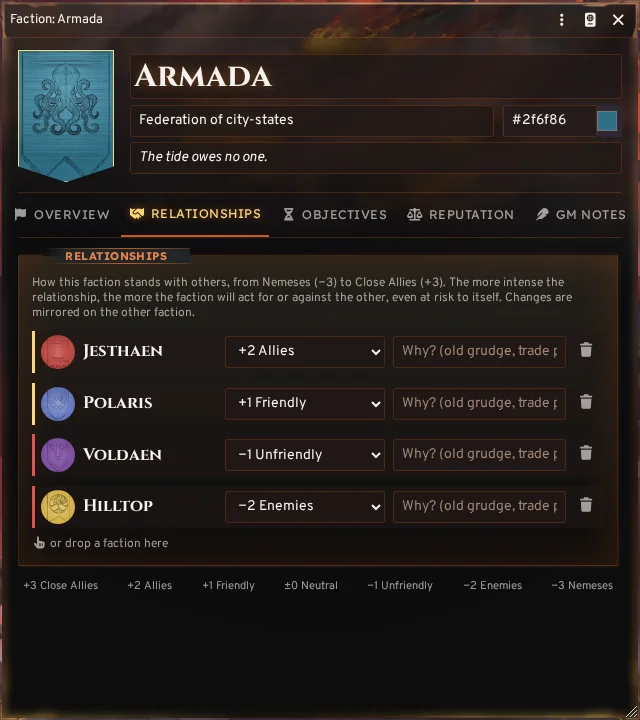
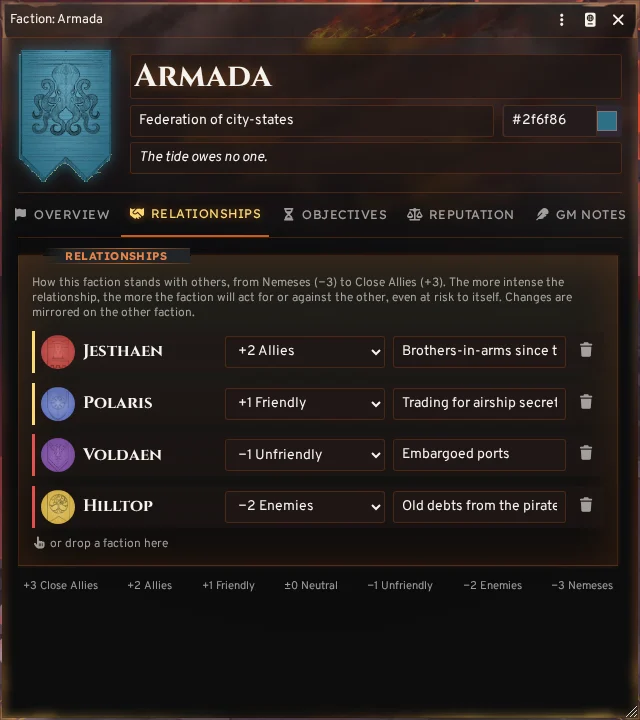
New README screenshots; let faction sheet editors grow with their text
Retake all README screenshots with a full level 2 character, the traced
banner shapes and objectives running in the Countdowns tracker.

Fix the faction sheet clipping longer descriptions, assets and problems:
Foundry's toggled editor positions its text absolutely, so the box never
grew past its minimum height.

diff --git a/styles/five-banners.css b/styles/five-banners.css
@@ -58,6 +58,8 @@
 .application.dh5b .window-content { background: transparent; color: var(--dh5b-text); padding: 0.75rem 1rem 1rem; gap: 0.6rem; }
 .application.dh5b-faction-sheet .window-content { overflow: hidden; display: flex; flex-direction: column; }
 .application.dh5b-faction-sheet .window-content > .tab { flex: 1; min-height: 0; overflow-y: auto; padding-right: 0.25rem; }
+/* Foundry lays tabs out as flex columns; keep sections at their natural height so the tab scrolls instead of squeezing them. */
+.application.dh5b-faction-sheet .window-content > .tab > * { flex-shrink: 0; }
 
 /* ---------- shared pieces ---------- */
 .dh5b .dh5b-hint,
@@ -218,7 +220,10 @@
 .dh5b nav.sheet-tabs > a.active { color: var(--dh5b-gold); border-bottom: 2px solid var(--dh5b-accent); text-shadow: 0 0 8px hsl(from var(--dh5b-bright) h s l / 0.5); }
 
 .dh5b .dh5b-two-col { display: grid; grid-template-columns: 1fr 1fr; gap: 0.8rem; }
-.dh5b prose-mirror { min-height: 5rem; }
+/* Editors grow with their text instead of clipping it; the tab itself scrolls. */
+.dh5b prose-mirror { height: auto; min-height: 5rem; }
+.dh5b prose-mirror.inactive .editor-content { position: static; height: auto; overflow: visible; }
+.dh5b prose-mirror.active { min-height: 12rem; }
 .dh5b prose-mirror .editor-content { color: var(--dh5b-text); }
 .dh5b .dh5b-prose { min-height: 1.5rem; }
 
